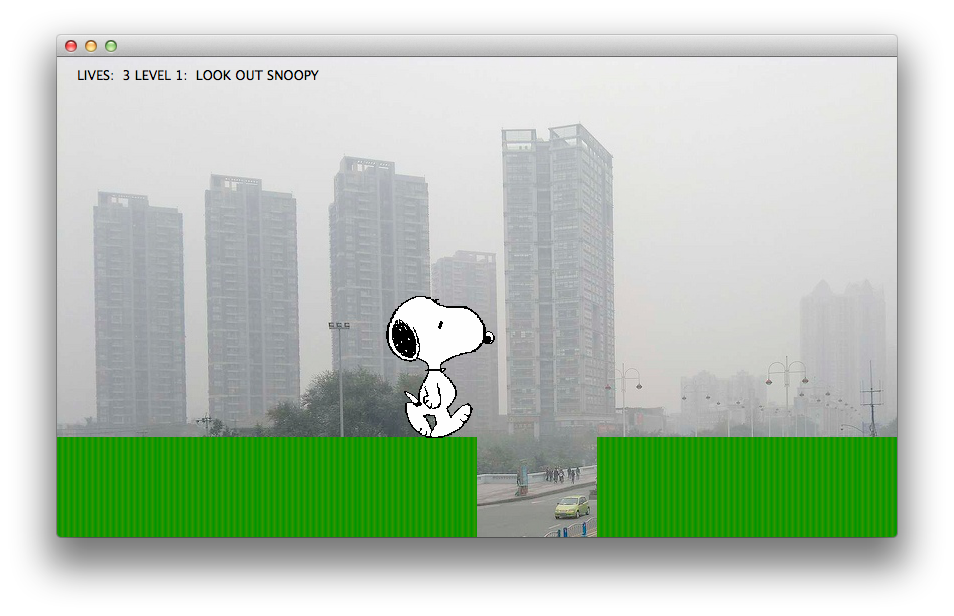
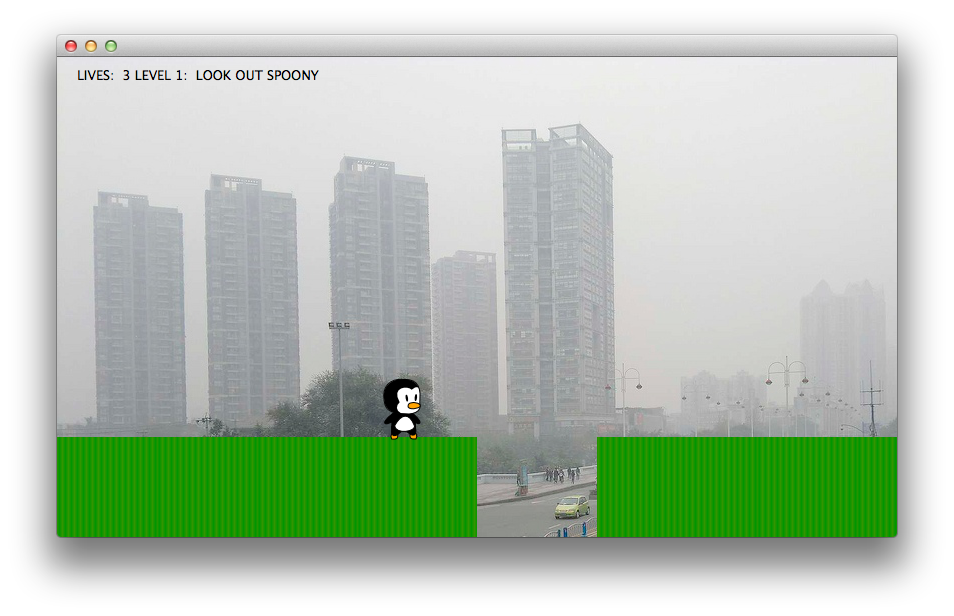
spoony gfx & animation

Changed region(s): [[0.3952, 0.4627, 0.5168, 0.7094], [0.2736, 0.0925, 0.3344, 0.1542]]

diff --git a/src/sprites/spoonysprite.cpp b/src/sprites/spoonysprite.cpp
@@ -12,13 +12,13 @@
 #include "spoonymessaging.h"
 #include "globals.h"
 
-const int SpoonySprite::spriteWidth = 121;
-const int SpoonySprite::spriteHeight = 150;
+const int SpoonySprite::spriteWidth = 56;
+const int SpoonySprite::spriteHeight = 90;
 
 SpoonySprite::SpoonySprite(SpoonyMessage *m, SoundHandler *sound, QGraphicsItem * parent)
     :QGraphicsObject(parent), m(m), _sound(sound)
 {
-    _mSpriteImage = new QPixmap(":/images/spoony.png");
+    _mSpriteImage = new QPixmap(":/images/tux_from_linux.png");
 
     StandingState* standing = new StandingState(this);
     RunningState* running = new RunningState(this);
@@ -64,20 +64,20 @@ void SpoonySprite::keyReleaseEvent(QKeyEvent *event)
 }
 
 SpoonySprite::~SpoonySprite()
-{    
+{
     delete _mSpriteImage;
 }
 
 QRectF SpoonySprite::boundingRect() const
 {
-    return QRectF(0,7,spriteWidth, spriteHeight);
+    return QRectF(8,18, spriteWidth-16, spriteHeight-30);
 }
 
 void SpoonySprite::paint(QPainter* painter, const QStyleOptionGraphicsItem*/*option*/,QWidget*/*widget*/)
 {
     painter->drawPixmap(0,0,*_mSpriteImage, _x*spriteWidth, _y*spriteHeight, spriteWidth, spriteHeight);
 //    painter->drawPath(shape());
-    //painter->drawRect(0,0,spriteWidth,spriteHeight);
+//    painter->drawRect(boundingRect());
 }
 
 void SpoonySprite::nextFrame()
@@ -104,7 +104,6 @@ void SpoonySprite::onLand()
 QPainterPath SpoonySprite::shape() const
 {
     QRectF r = boundingRect();
-    r.adjust(20,6,-20,-6);
     QPainterPath path;
     path.addEllipse(r);
     return path;

diff --git a/src/runningstate.cpp b/src/runningstate.cpp
@@ -14,7 +14,7 @@ void RunningState::nextFrame()
     {
         _spoony->_y = 0;
         _spoony->_x += 1;
-        if (_spoony->_x >= 4 )
+        if (_spoony->_x >= 3 )
             _spoony->_x = 0;
     }
     _counter++;

diff --git a/README.md b/README.md
@@ -5,6 +5,8 @@ Includes Qt Creator project file.
 
 Test automation with QTestLib and [Cucumber](http://cukes.info/) + [Testability Driver](http://projects.developer.nokia.com/Testabilitydriver)
 
-The game itself is a tribute to the classic C64 game. Even though it's unfinished, it's playable :)
+The game itself is a tribute to the classic C64 game Snoopy. Even though it's unfinished, it's playable :)
+
+Main character gfx by creek23: http://opengameart.org/content/tux-the-linux-mascot
 
 ![Screenshot](http://github.com/glebb/Spoony/raw/master/screenshot.png)
